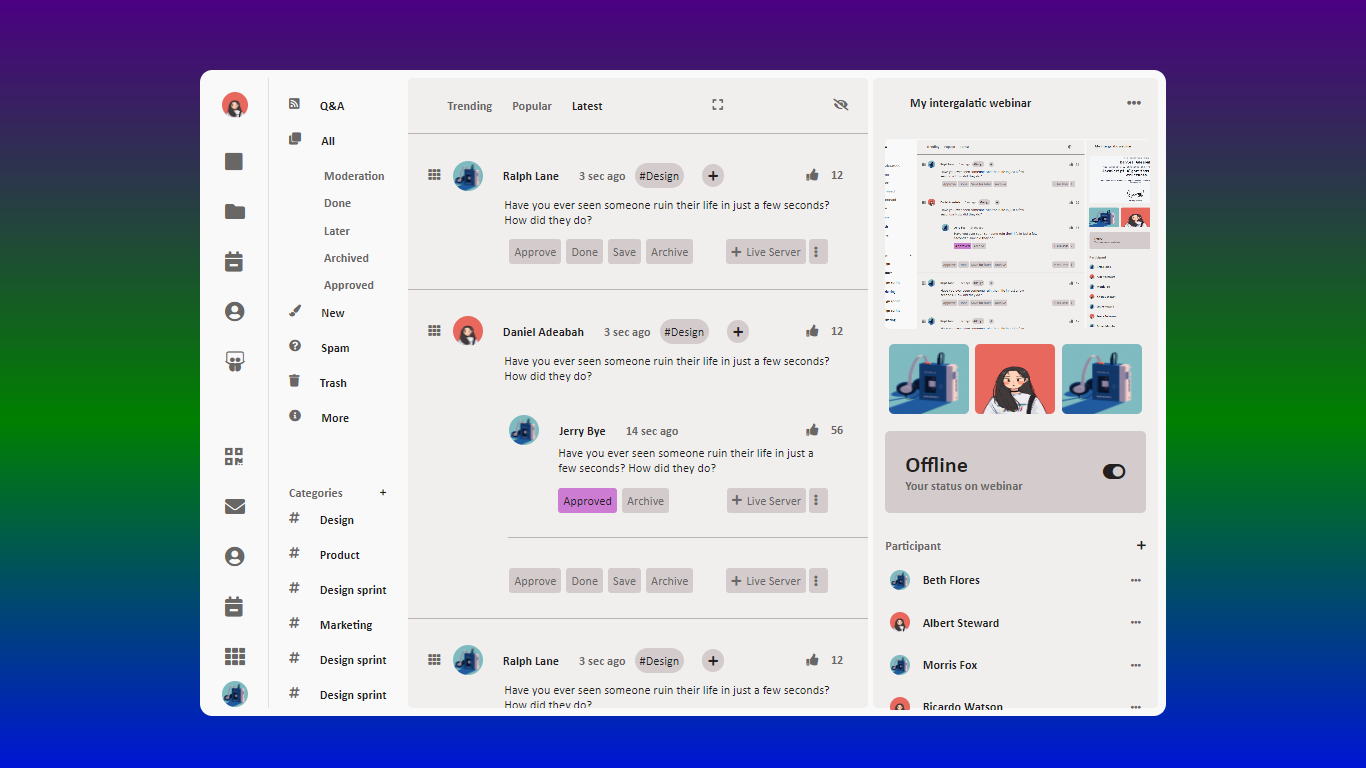
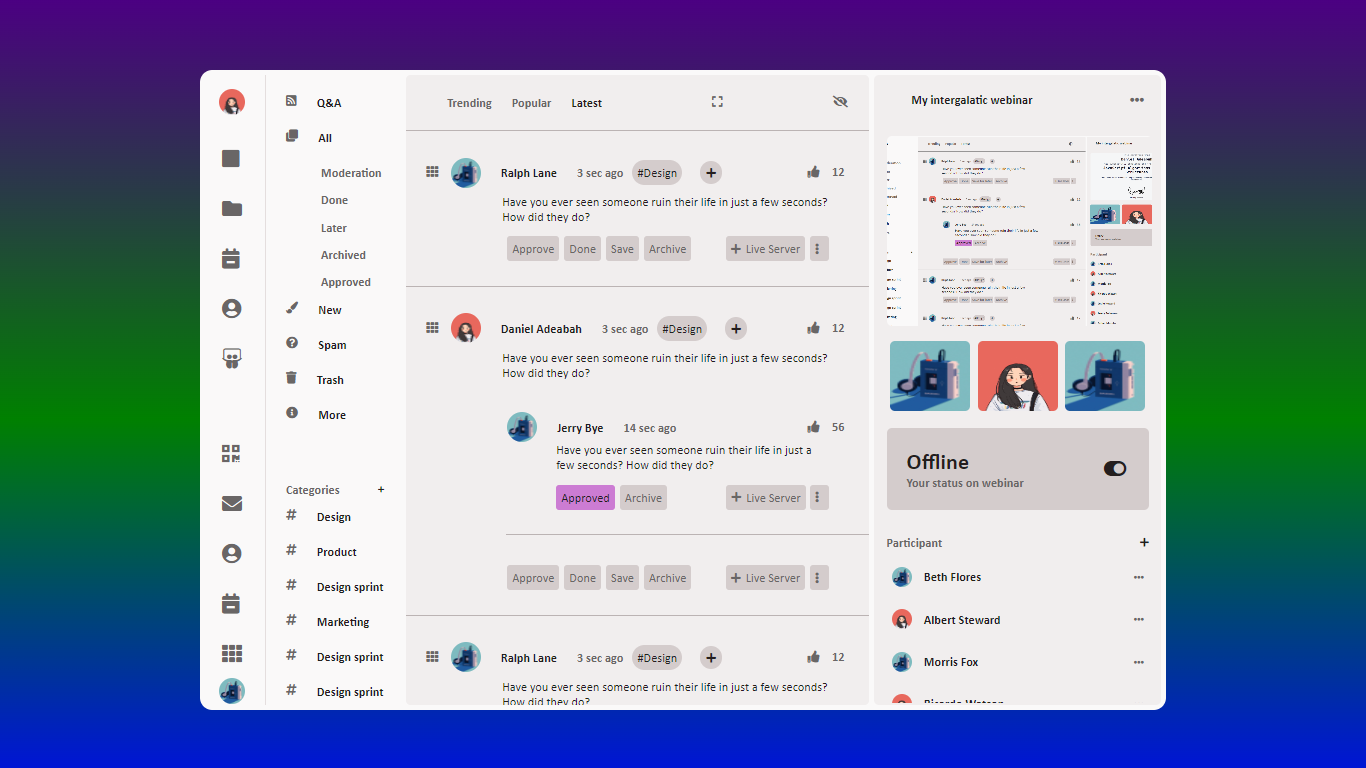
update

diff --git a/assets/css/style.css b/assets/css/style.css
@@ -2,17 +2,17 @@
 :root {
     /* Dark mode */
     --background-default: #000;
-    --background-secondary: #0f0d0d;
-    --background-tertiary: #1b1a1a;
+    --background-secondary: #1d1c1c;
+    --background-tertiary: #383636;
     --color-default: #fff;
     --gradient-background: linear-gradient(135deg, indigo 90%, green 99.21%, blue 10%);
     
-    --color-gray: #696666;
+    --color-gray: #9b9898;
     --color-blue: #3432a8;
     --color-indigo: #b705c7;
 
     --border-default: 1px solid #0f0d0d;
-    --border-secondary: 1px solid #161616;
+    --border-secondary: 1px solid #252424;
 
     
     /* fullscreen or expand */
@@ -47,14 +47,14 @@
     
     --main-height: 30vh;
     --main-border-radius: 1.1rem;
-    --main-padding: 8px;
+    --main-padding: 5px;
     --main-margin: 70px 200px 70px 200px;
     
     --font-size-default: 1.1rem;
     
     --sections-height: 82vh;
     --section-one_div-top-margin-bottom: 45px;
-    --section-four-users-container-height: 185px;
+    --section-four-users-container-height: 181px;
     --section-four-video-img-width: 265px;
     --section-four-video-lists-img-width: 80px; 
     --section-three-user-replies-buttons-container-a-margin-left: 55px;
